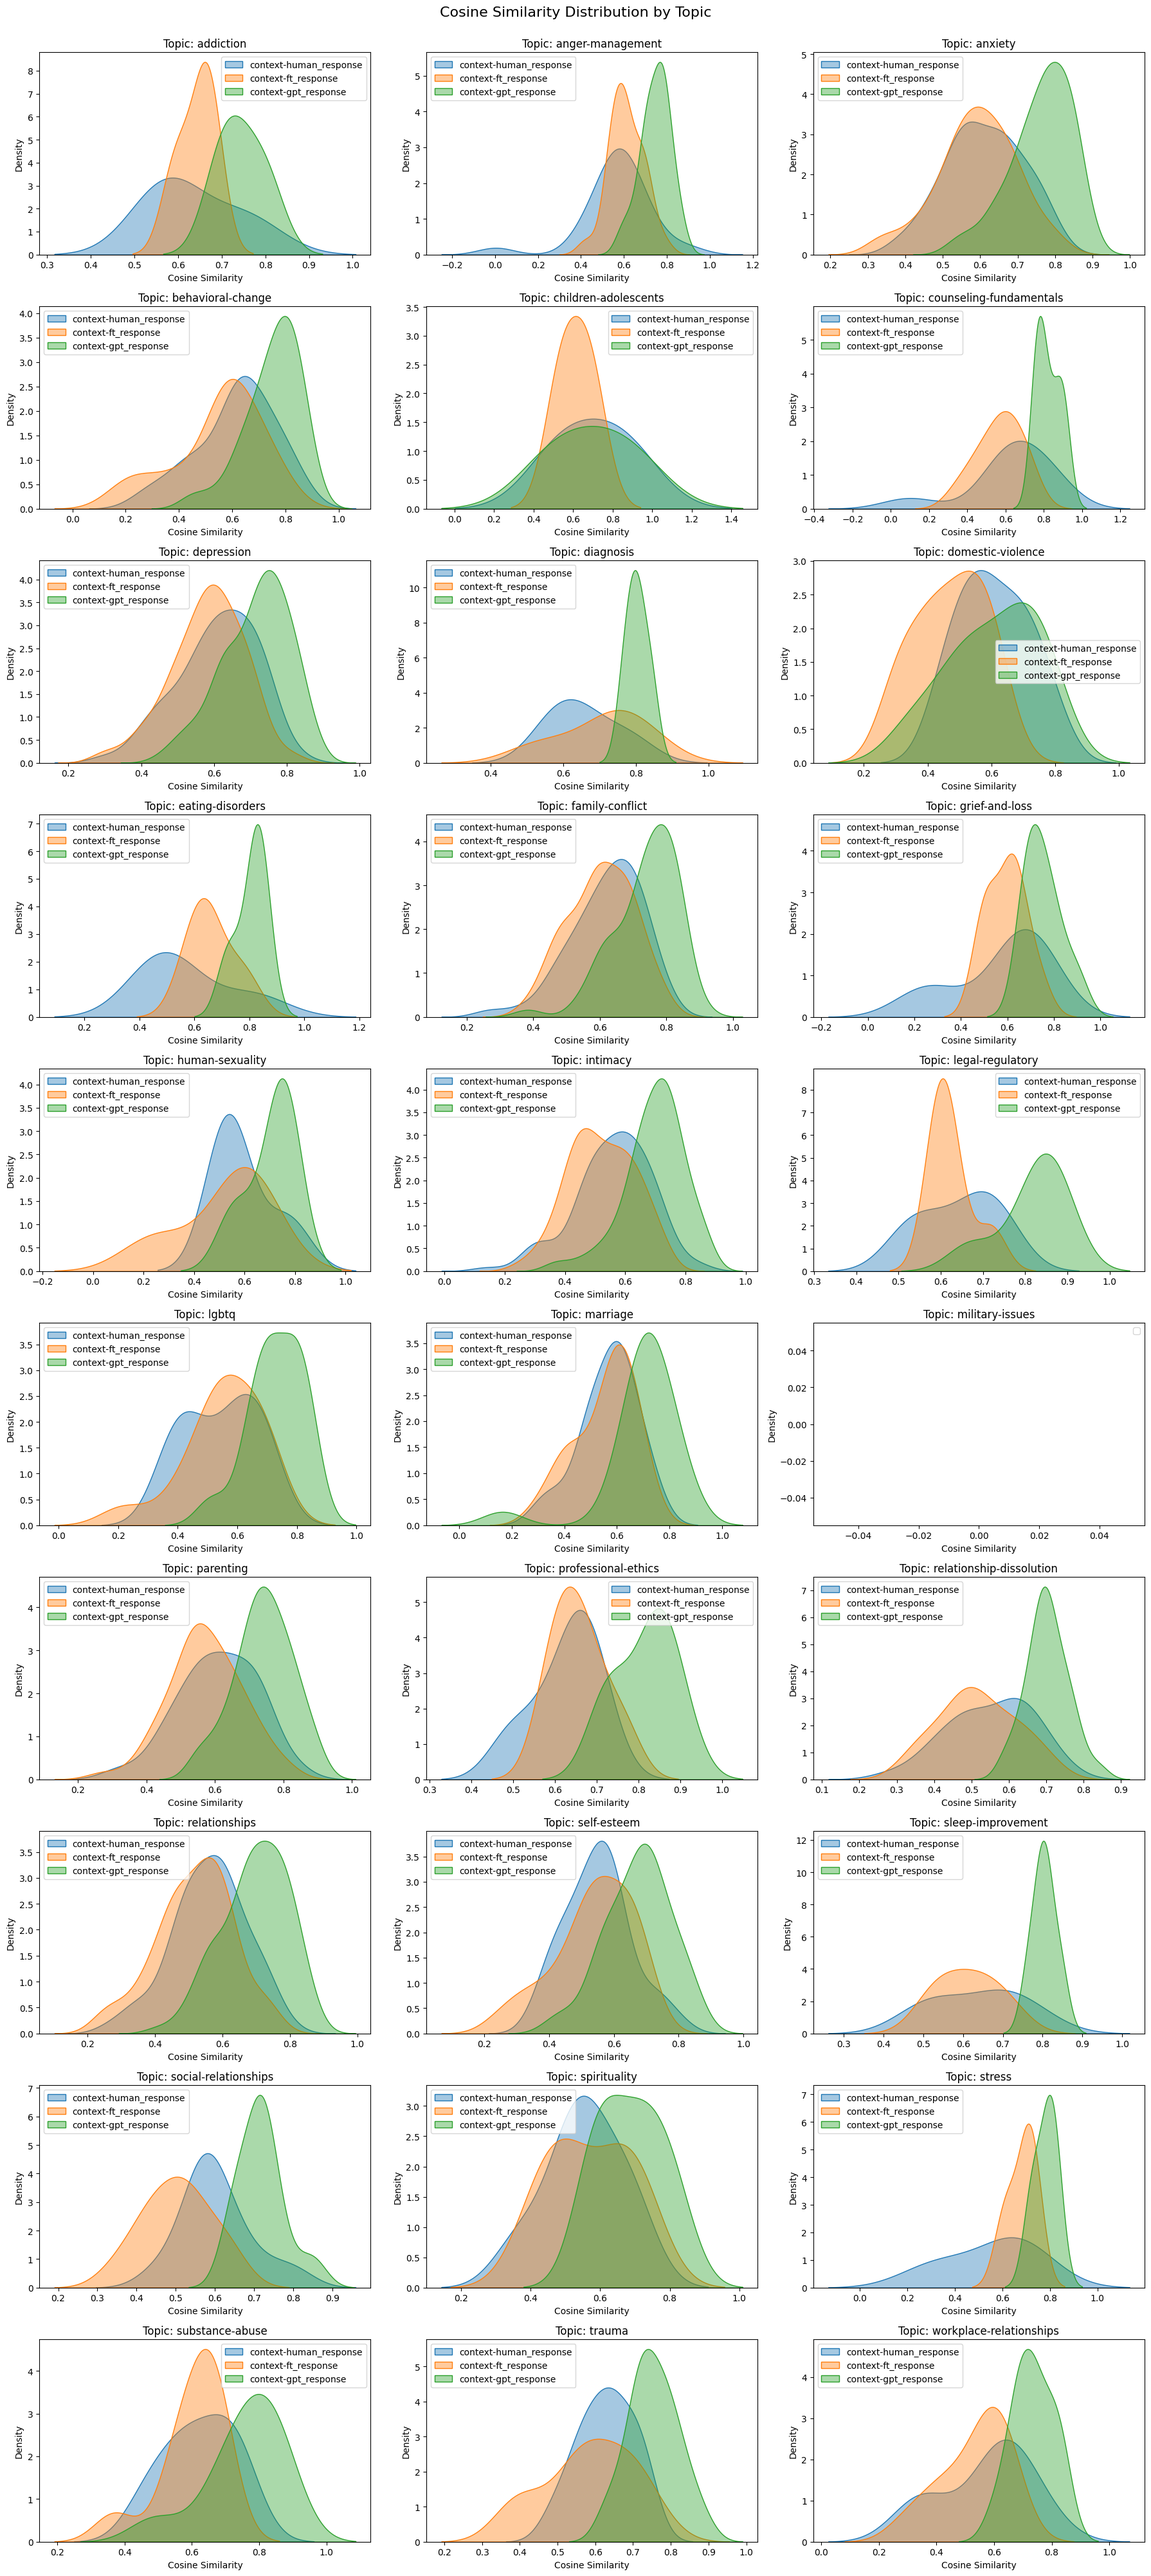
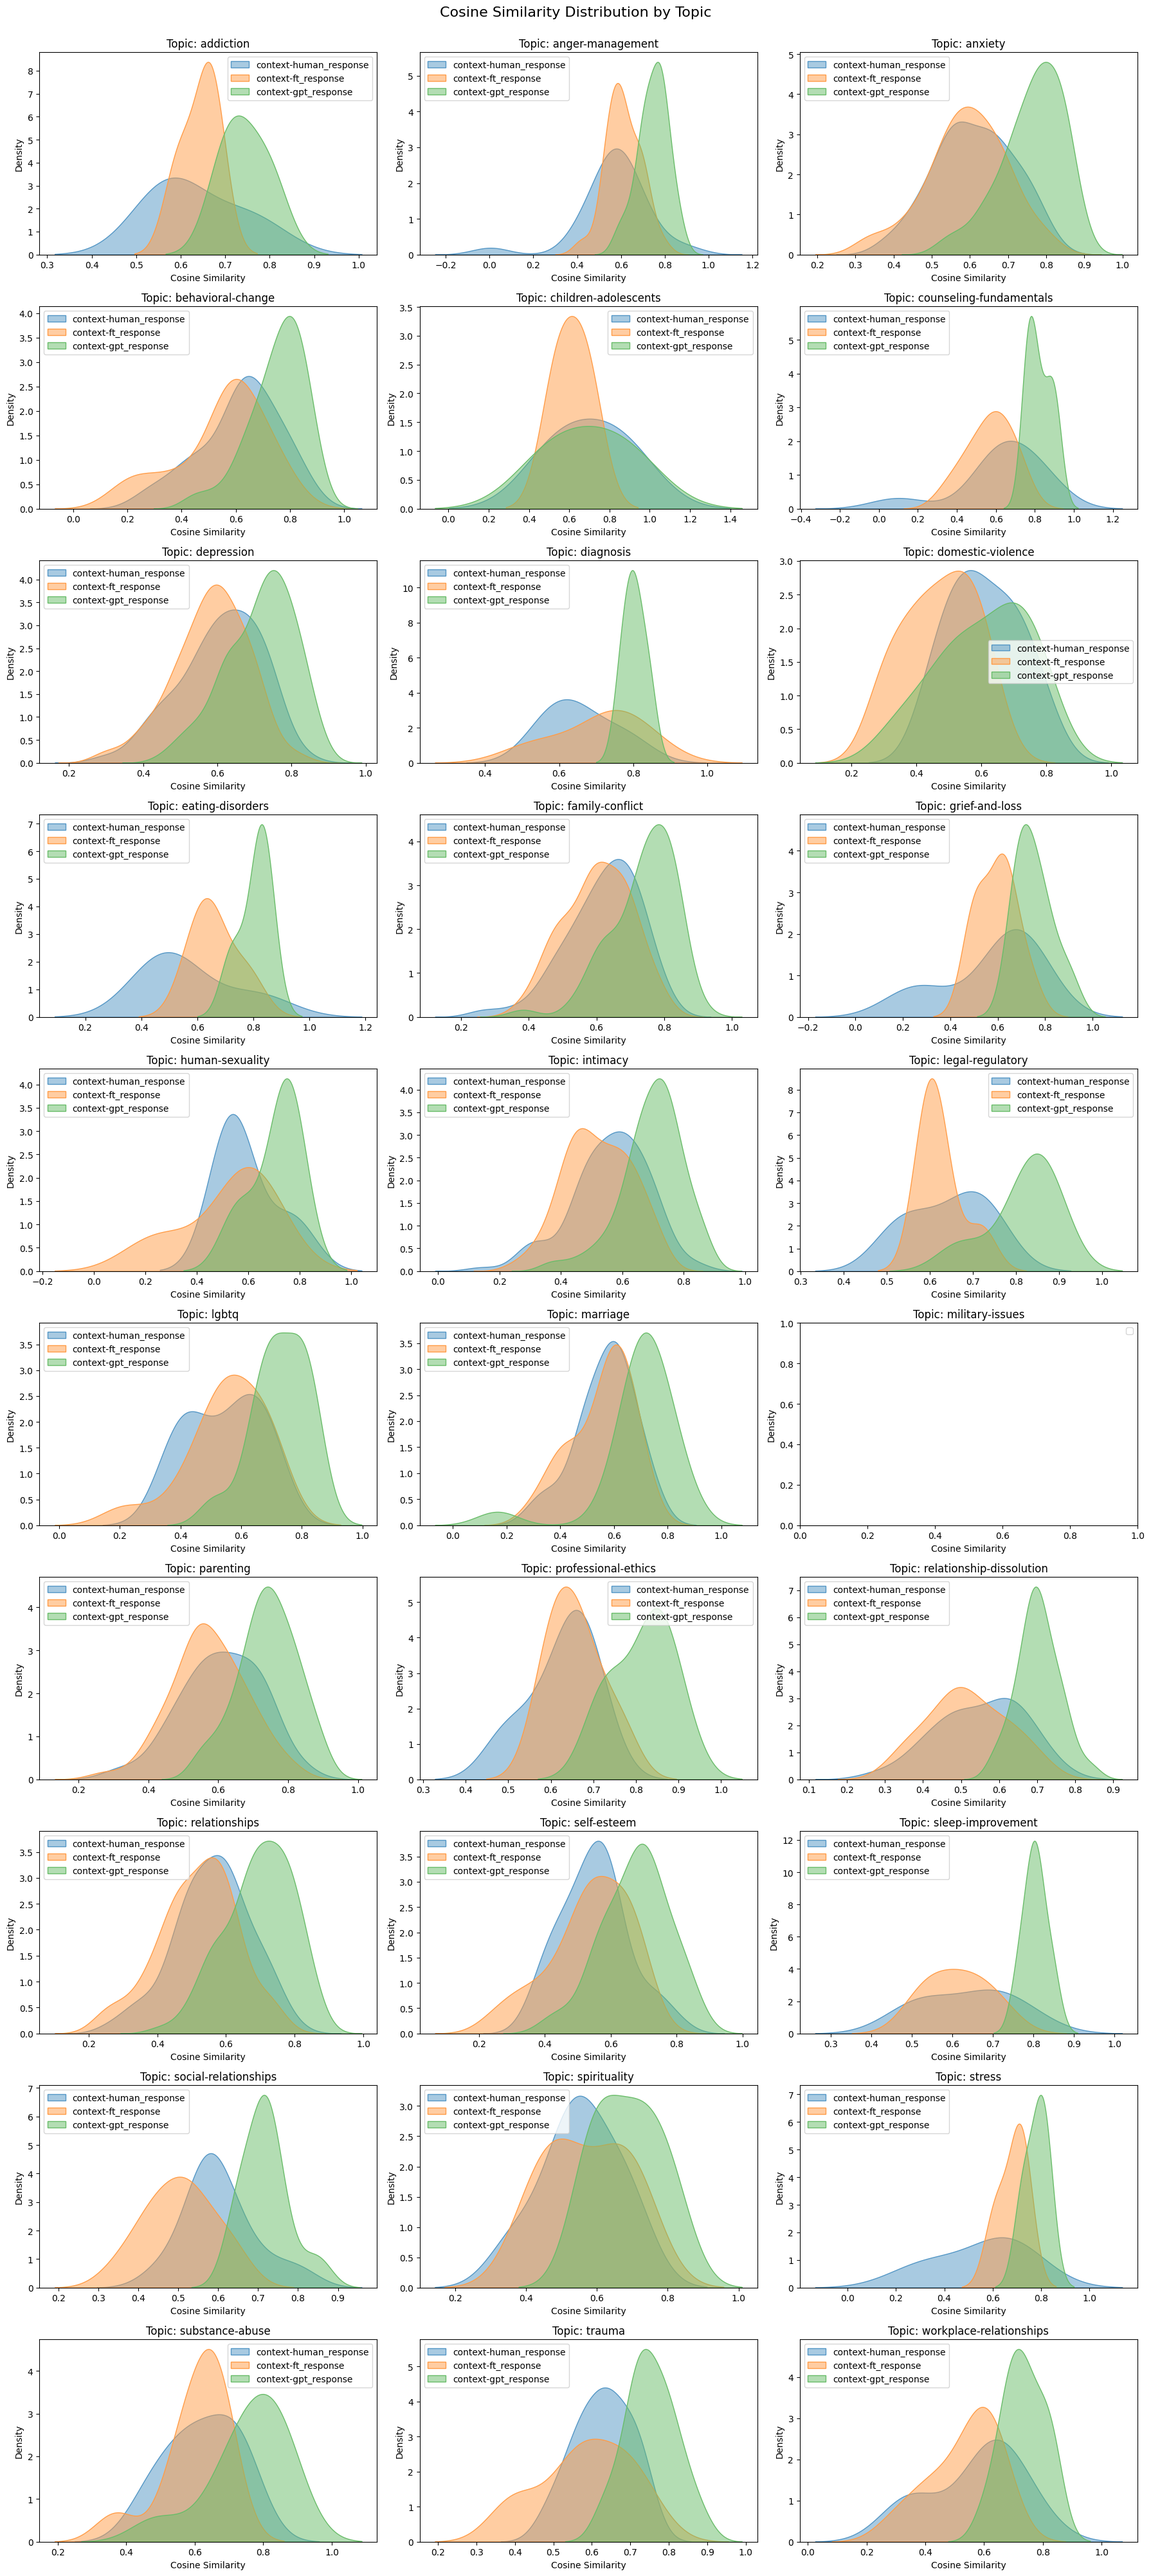
new colours and delete old plot functions

diff --git a/src/CosineSimilarities.py b/src/CosineSimilarities.py
@@ -78,52 +78,19 @@ def compute_cosine_similarity(save_path, column_pairs):
     return avg_cos_sim, rowwise_sims # also get row-wise sim for later plotting
 
 
-
-def plot_mean_embeddings(save_path, columns, output_path, filename):
+def get_color_mapping():
     """
-    Plot mean embeddings as 2D points after UMAP.
-
-    Args:
-        save_path (str): folder where .npy embeddings are stored
-        columns (str): list of columns that will a mean will be calculated for
-        output_path (str): folder where plots should be saved
-        filename (str): Name of file to be saved
-    """
-    # Ensure save directory exists
-    os.makedirs(output_path, exist_ok=True)
-
-    # get mean embeddings of each column
-    mean_embeds = {}
-    for col in columns:
-        X = np.load(os.path.join(save_path, f"emb-{col}.npy"))
-        mean_embeds[col] = X.mean(axis=0)
-
-    labels = list(mean_embeds.keys())
-    X_mean = np.stack(list(mean_embeds.values()))
-
-    # Umap to 2D
-    n_neighbors = min(15, len(X_mean) - 1)
-    reducer = umap.UMAP(n_components=2, n_neighbors=n_neighbors)    
-    X_2d = reducer.fit_transform(X_mean)
-
-    # Plot points
-    plt.figure(figsize=(6,6))
-    plt.scatter(X_2d[:,0], X_2d[:,1], color=["blue","green","orange","red"], s=100)
-
-    # Add labels
-    for i, label in enumerate(labels):
-        plt.text(X_2d[i,0]+0.01, X_2d[i,1]+0.01, label, fontsize=12)
-
-    plt.title("Mean Embeddings Projected to 2D (UMAP)")
-    plt.xlabel("UMAP-1")
-    plt.ylabel("UMAP-2")
-    plt.grid(True)
+    Define color mapping for different comparison pairs.
     
-    save_file = os.path.join(output_path, filename)
-    plt.savefig(save_file)
-    plt.close()
-    print(f"Mean Embeddings Projected plot saved to: {save_file}")
-
+    Returns:
+        dict: mapping of pair names to hex colors
+    """
+    color_map = {
+        "context-human_response": "#5396c5",  # blue
+        "context-ft_response": "#ff9c47",     # orange
+        "context-gpt_response": "#69bc69"    # green
+    }
+    return color_map
 
 
 def plot_kde(rowwise_sims, output_path, filename, topics=None):
@@ -137,12 +104,14 @@ def plot_kde(rowwise_sims, output_path, filename, topics=None):
         topics (np.array): optional array of topics for per-topic plots
     """
     os.makedirs(output_path, exist_ok=True)
+    color_map = get_color_mapping()
 
     if topics is None:
         # Overall plot
         plt.figure(figsize=(8,5))
         for name, sims in rowwise_sims.items():
-            sns.kdeplot(sims, label=name, fill=True, alpha=0.4)
+            color = color_map.get(name, "#000000")  # Default to black if not found
+            sns.kdeplot(sims, label=name, fill=True, alpha=0.5, color=color)
         plt.xlabel("Cosine Similarity")
         plt.ylabel("Density")
         plt.title("Row-wise Cosine Similarity Distribution (KDE)")
@@ -174,7 +143,8 @@ def plot_kde(rowwise_sims, output_path, filename, topics=None):
             for name, sims in rowwise_sims.items():
                 topic_sims = sims[topic_mask]
                 if len(topic_sims) > 0:
-                    sns.kdeplot(topic_sims, label=name, fill=True, alpha=0.4, ax=ax)
+                    color = color_map.get(name, "#000000")
+                    sns.kdeplot(topic_sims, label=name, fill=True, alpha=0.5, color=color, ax=ax)
             
             ax.set_xlabel("Cosine Similarity")
             ax.set_ylabel("Density")
@@ -192,116 +162,6 @@ def plot_kde(rowwise_sims, output_path, filename, topics=None):
         plt.savefig(save_file, bbox_inches='tight')
         plt.close()
         print(f"Faceted KDE plot saved to: {save_file}")
-
-
-def plot_violin(rowwise_sims, output_path, filename, topics=None):
-    """
-    Plot violin plot of row-wise cosine similarities per column pair.
-
-    Args:
-        rowwise_sims (dict): dictionary with row-wise cosine similarities
-        output_path (str): folder where plots should be saved
-        filename (str): Name of file to be saved
-        topics (np.array): optional array of topics for per-topic plots
-    """
-    os.makedirs(output_path, exist_ok=True)
-
-    if topics is None:
-        # Overall plot
-        data = []
-        for name, sims in rowwise_sims.items():
-            for val in sims:
-                data.append({"pair": name, "similarity": val})
-        df = pd.DataFrame(data)
-
-        plt.figure(figsize=(8,5))
-        sns.violinplot(x="pair", y="similarity", data=df, inner="quartile")
-        plt.title("Row-wise Cosine Similarity per Column Pair (Violin Plot)")
-        plt.ylabel("Cosine Similarity")
-        plt.xlabel("Column Pair")
-        plt.xticks(rotation=30)
-        plt.tight_layout()
-
-        save_file = os.path.join(output_path, filename)
-        plt.savefig(save_file)
-        plt.close()
-        print(f"Violin plot saved to: {save_file}")
-    else:
-        # Per-topic faceted plot
-        unique_topics = np.unique(topics[~pd.isna(topics)])
-        n_topics = len(unique_topics)
-        
-        # Calculate grid dimensions
-        n_cols = min(3, n_topics)
-        n_rows = int(np.ceil(n_topics / n_cols))
-        
-        fig, axes = plt.subplots(n_rows, n_cols, figsize=(6*n_cols, 5*n_rows))
-        if n_topics == 1:
-            axes = np.array([axes])
-        axes = axes.flatten()
-        
-        for idx, topic in enumerate(unique_topics):
-            topic_mask = topics == topic
-            ax = axes[idx]
-            
-            data = []
-            for name, sims in rowwise_sims.items():
-                topic_sims = sims[topic_mask]
-                for val in topic_sims:
-                    data.append({"pair": name, "similarity": val})
-            df = pd.DataFrame(data)
-
-            if len(df) > 0:
-                sns.violinplot(x="pair", y="similarity", data=df, inner="quartile", ax=ax)
-                ax.set_title(f"Topic: {topic}")
-                ax.set_ylabel("Cosine Similarity")
-                ax.set_xlabel("Column Pair")
-                ax.tick_params(axis='x', rotation=30)
-        
-        # Hide unused subplots
-        for idx in range(n_topics, len(axes)):
-            axes[idx].axis('off')
-        
-        plt.suptitle("Cosine Similarity per Column Pair by Topic", fontsize=16, y=1.00)
-        plt.tight_layout()
-
-        save_file = os.path.join(output_path, filename)
-        plt.savefig(save_file, bbox_inches='tight')
-        plt.close()
-        print(f"Faceted violin plot saved to: {save_file}")
-
-
-def plot_heatmap(rowwise_sims, output_path, filename, topics=None):
-    """
-    Plot heatmap of row-wise cosine similarities.
-
-    Args:
-        rowwise_sims (dict): dictionary with row-wise cosine similarities
-        output_path (str): folder where plots should be saved
-        filename (str): Name of file to be saved
-        topics (np.array): optional array of topics for sorting
-    """
-    os.makedirs(output_path, exist_ok=True)
-
-    sims_matrix = np.stack(list(rowwise_sims.values()), axis=1)  # shape: (n_rows, n_pairs)
-    labels = list(rowwise_sims.keys())
-
-    if topics is not None:
-        # Sort by topic for better visualization
-        sort_idx = np.argsort(topics)
-        sims_matrix = sims_matrix[sort_idx, :]
-
-    plt.figure(figsize=(10,6))
-    sns.heatmap(sims_matrix, cmap="viridis", yticklabels=False, xticklabels=labels)
-    plt.title("Row-wise Cosine Similarity Heatmap")
-    plt.xlabel("Column Pair")
-    plt.ylabel("Context Index (sorted by topic)" if topics is not None else "Context Index")
-    plt.tight_layout()
-
-    save_file = os.path.join(output_path, filename)
-    plt.savefig(save_file)
-    plt.close()
-    print(f"Heatmap saved to: {save_file}")
 
 
 def calculate_similarity_stats(rowwise_sims, topics=None):
@@ -400,11 +260,6 @@ column_pairs_topic = [
     ("context", "ft_response"),
     ("context", "gpt_response")
 ]
-column_pairs_human = [
-    ("ft_response", "gpt_response"),
-    ("human_response", "ft_response"),
-    ("human_response", "gpt_response")
-]
 
 
 ''' Main '''
@@ -423,20 +278,13 @@ if __name__ == "__main__":
     # Compute average cosine similarities
     avg_cos_sim, rowwise_sims = compute_cosine_similarity(save_path, column_pairs = column_pairs_topic)
     print("Average Cosine Similarities:", avg_cos_sim)
-
-    # Plot mean embeddings after Umap
-    columns = ["context", "human_response", "ft_response", "gpt_response"]
-    plot_mean_embeddings(save_path, columns, output_path, filename = "Topic_mean_embeddings_UMAP.png")
     
     # Overall plots
     plot_kde(rowwise_sims, output_path, filename ="Topic_cosine_similarity_kde.png")
-    plot_violin(rowwise_sims, output_path, filename ="Topic_cosine_similarity_violin.png")
-    plot_heatmap(rowwise_sims, output_path, filename ="Topic_cosine_similarity_heatmap.png", topics=topics)
-    
+
     # Per-topic plots
     print("\nGenerating per-topic plots for on-topic analysis...")
     plot_kde(rowwise_sims, output_path, filename ="Topic_cosine_similarity_kde_by_topic.png", topics=topics)
-    plot_violin(rowwise_sims, output_path, filename ="Topic_cosine_similarity_violin_by_topic.png", topics=topics)
     
     # Calculate and save statistics
     print("\nCalculating statistics for on-topic analysis...")
@@ -444,33 +292,3 @@ if __name__ == "__main__":
     save_statistics(overall_stats, topic_stats, output_path, prefix="Topic")
     print("\nOn-topic statistics summary:")
     print(overall_stats)
-
-
-    # --- Human-Likeness Analysis ---
-    
-    # Compute average cosine similarities
-    avg_cos_sim, rowwise_sims = compute_cosine_similarity(save_path, column_pairs = column_pairs_human)
-    print("\nAverage Cosine Similarities:", avg_cos_sim)
-
-    # Plot mean embeddings after Umap
-    columns = ["context", "human_response", "ft_response", "gpt_response"]
-    plot_mean_embeddings(save_path, columns, output_path, filename = "Mean_embeddings_UMAP.png")
-
-    # Overall plots
-    plot_kde(rowwise_sims, output_path, filename ="Human_cosine_similarity_kde.png")
-    plot_violin(rowwise_sims, output_path, filename ="Human_cosine_similarity_violin.png")
-    plot_heatmap(rowwise_sims, output_path, filename ="Human_cosine_similarity_heatmap.png", topics=topics)
-    
-    # Per-topic plots
-    print("\nGenerating per-topic plots for human-likeness analysis...")
-    plot_kde(rowwise_sims, output_path, filename ="Human_cosine_similarity_kde_by_topic.png", topics=topics)
-    plot_violin(rowwise_sims, output_path, filename ="Human_cosine_similarity_violin_by_topic.png", topics=topics)
-
-    # Calculate and save statistics
-    print("\nCalculating statistics for human-likeness analysis...")
-    overall_stats, topic_stats = calculate_similarity_stats(rowwise_sims, topics)
-    save_statistics(overall_stats, topic_stats, output_path, prefix="Human")
-    print("\nHuman-likeness statistics summary:")
-    print(overall_stats)
-
-    print("\nAll plots and statistics generated successfully!")

diff --git a/src/Elephant_compare_to_human.py b/src/Elephant_compare_to_human.py
@@ -38,6 +38,21 @@ sns.set_style("ticks", {
 
 # ------------------------ Functions ------------------------
 
+def get_color_mapping():
+    """
+    Define color mapping for different models.
+    
+    Returns:
+        dict: mapping of model names to hex colors
+    """
+    color_map = {
+        "Human_sychophancy": "#5396c5",  # blue
+        "FT_sychophancy": "#ff9c47",     # orange
+        "GPT_sychophancy": "#69bc69"     # green
+    }
+    return color_map
+
+
 def merge_dfs(dfs, files_path):
     """
     Merge multiple DataFrames on 'Context'.
@@ -109,6 +124,9 @@ def main():
     print(f"\nMetrics saved to output/elephant_metrics_results.csv")
     print(f"Rows saved: {len(plot_df)}")
 
+    # Get color mapping
+    color_map = get_color_mapping()
+    
     # Create grouped bar plot
     metrics = ['validation', 'indirectness', 'framing']
     models = plot_df['model'].unique()
@@ -122,6 +140,9 @@ def main():
         print(i)
         model_df = plot_df[plot_df['model'] == model].set_index('metric').loc[metrics]
         
+        # Get color for this model
+        color = color_map.get(model, "#000000")  # Default to black if not found
+        
         hatch = '\\' if i == 0 else None
         ax.bar(
             x + i * width,
@@ -129,7 +150,8 @@ def main():
             width,
             yerr=model_df['CI'],
             label=model,
-            hatch=hatch
+            hatch=hatch,
+            color=color
         )
     
     apply_style(ax)
@@ -214,4 +236,3 @@ def main():
 
 if __name__ == "__main__":
     main()
-    
